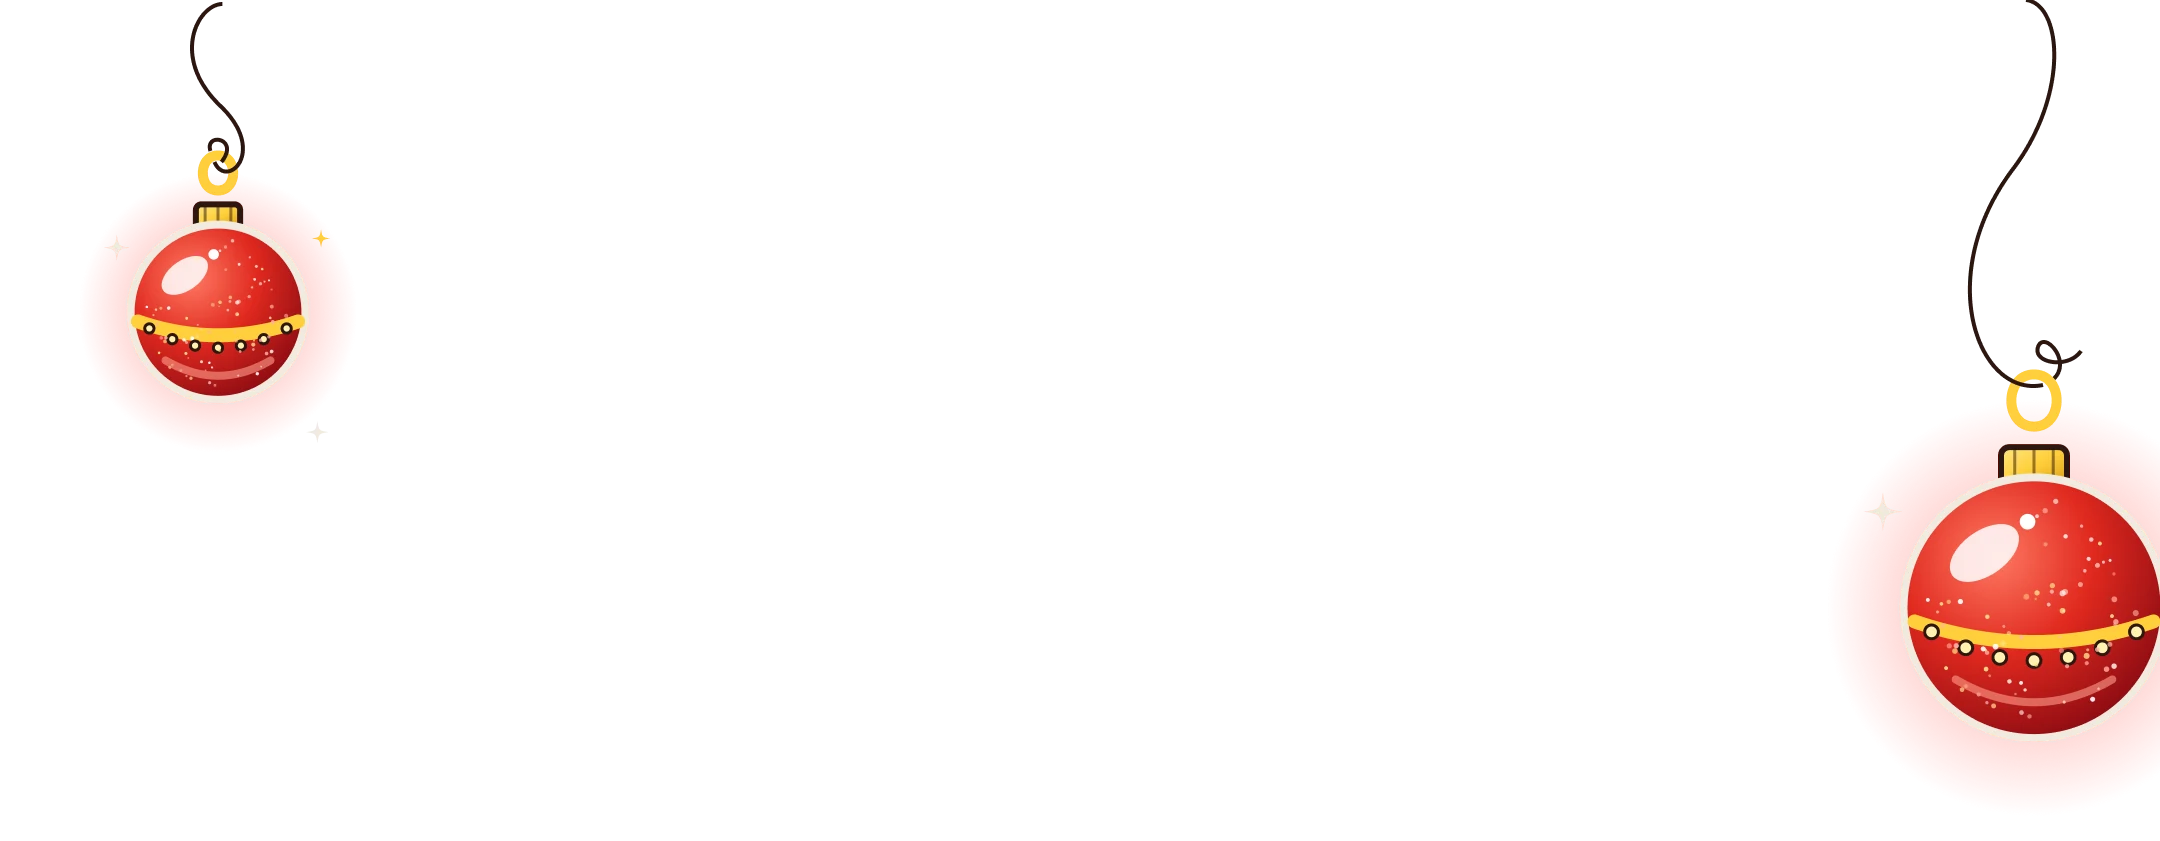
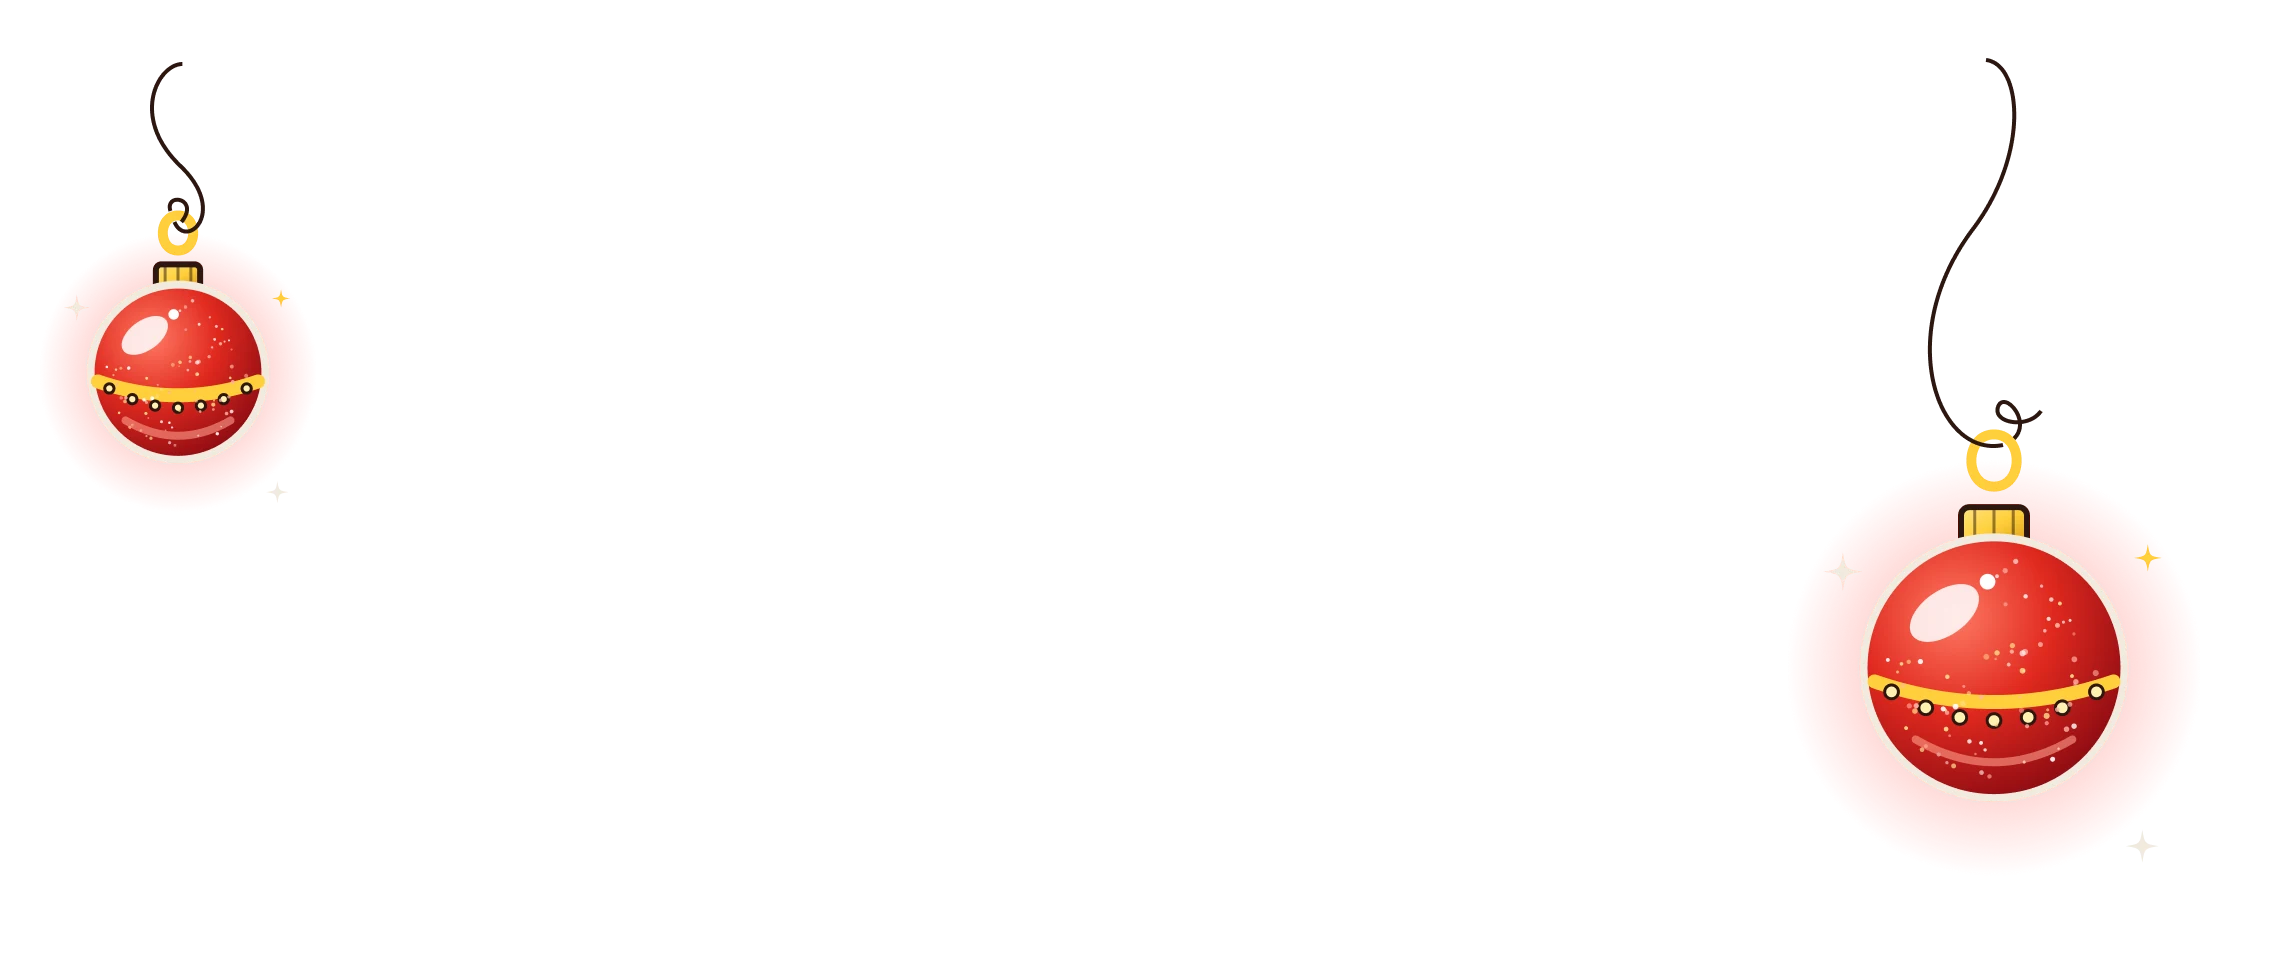
Адвент: шарики нижнего баннера без обрезки
Claude-Session: https://claude.ai/code/session_01GfQ64KGxdXSHigsKaU2X2y

diff --git a/ngdesign/advent.js b/ngdesign/advent.js
@@ -211,7 +211,7 @@
 .adv-ban2 .cat img{width:100%;height:100%;object-fit:contain;object-position:top center}
 .adv-ban2 .adv-h1{position:absolute;left:0;right:0;top:calc(233 * var(--k));font-size:calc(96 * var(--k));line-height:.95;z-index:5}
 .adv-ban2 .adv-hand{position:absolute;left:calc(363 * var(--k));width:calc(550 * var(--k));top:calc(364 * var(--k));font-size:calc(46 * var(--k));z-index:5}
-.adv-ban2 .orn{left:calc(53 * var(--k));top:calc(295 * var(--k));width:calc(1080 * var(--k));height:calc(420.5 * var(--k));z-index:6}
+.adv-ban2 .orn{left:calc(33 * var(--k));top:calc(264.5 * var(--k));width:calc(1140 * var(--k));height:calc(480.5 * var(--k));z-index:6}
 .adv-ban2 .m{display:none}
 
 /* футер */
@@ -431,7 +431,7 @@
       '<div class="adv-ab cat"><img alt="" src="' + IMG + 'cat.webp"></div>' +
       '<h2 class="adv-h1"><span class="d">Счастливого нового года!</span><span class="m"><span class="a">счастливого</span>нового года!</span></h2>' +
       '<div class="adv-hand">Пусть все твои мечты сбываются каждый день</div>' +
-      '<img class="adv-ab orn" alt="" src="' + IMG + 'ornaments.webp">' +
+      '<img class="adv-ab orn" alt="" src="' + IMG + 'ornaments.webp?v=3">' +
       '</div><canvas class="adv-fx" aria-hidden="true"></canvas></section></div>' +
       '<footer class="adv-foot"><div class="l"><span>Вита, UX/UI-дизайнер</span><a href="' + esc(CFG.site) + '" target="_blank" rel="noopener"><b>vitadi.design</b></a></div>' +
       '<a href="' + esc(CFG.privacy) + '">Политика конфиденциальности</a></footer>' +
